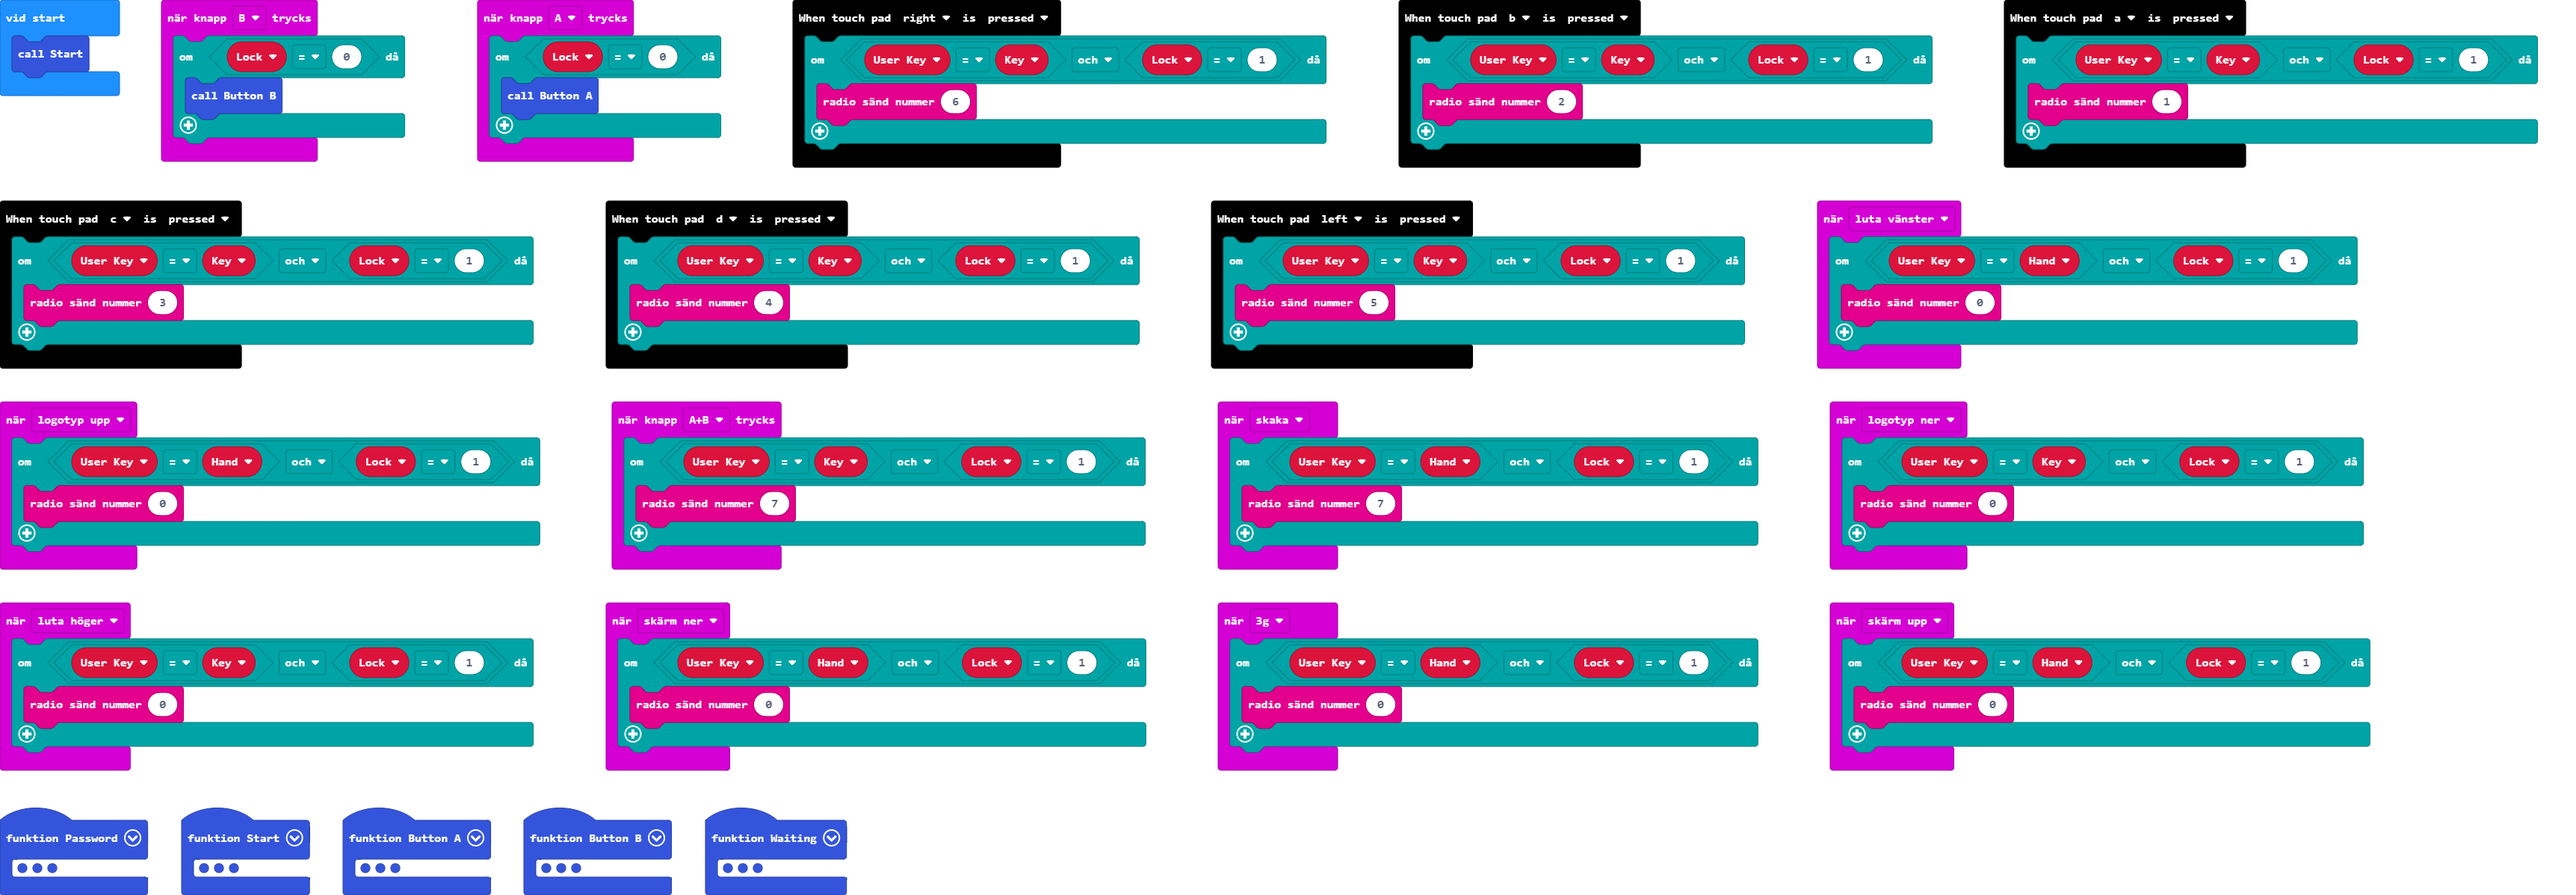
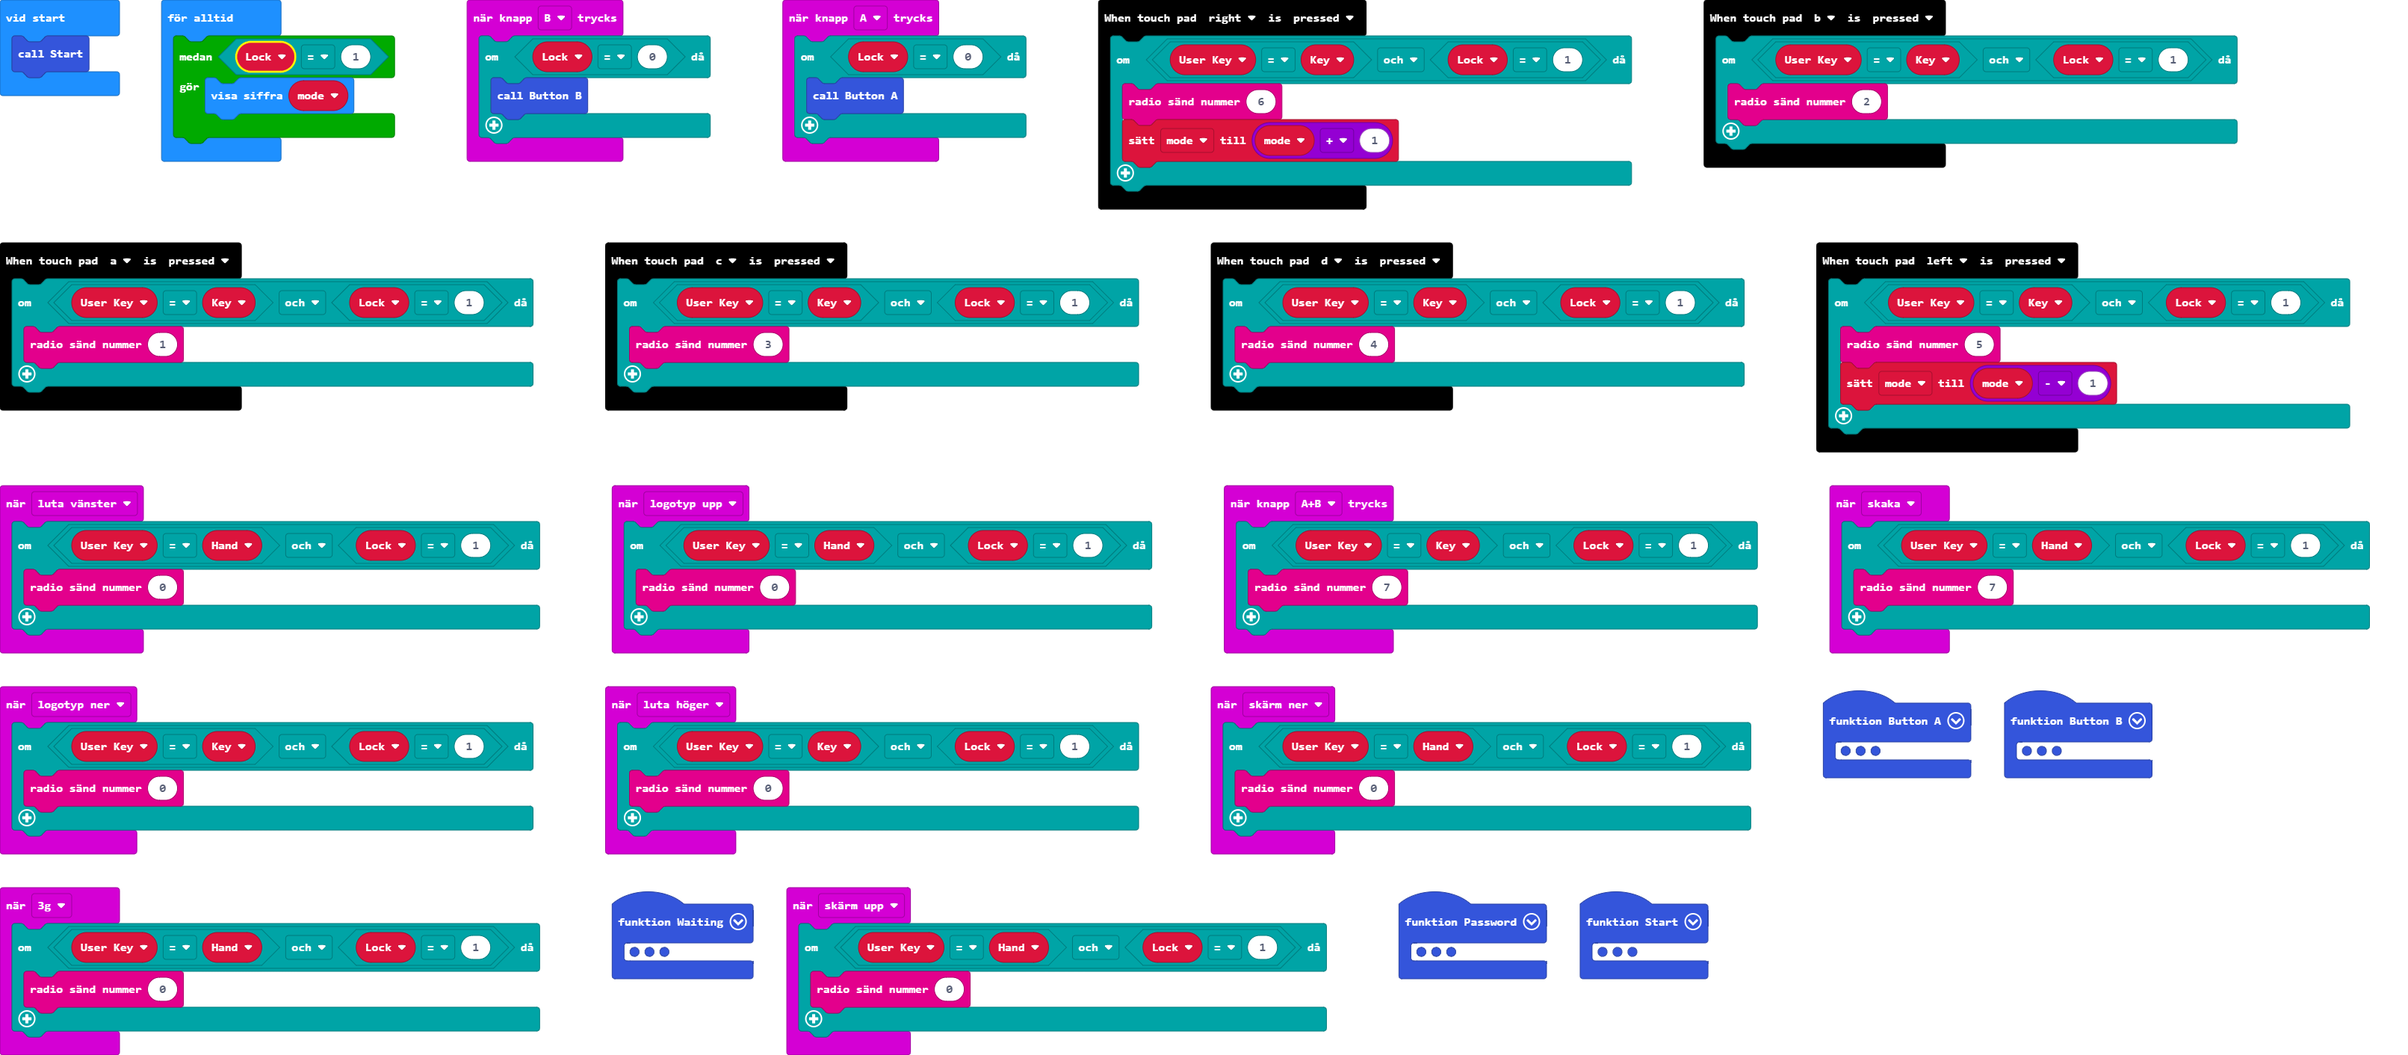
Update main.blocks, main.ts

diff --git a/main.ts b/main.ts
@@ -11,17 +11,16 @@ function Password () {
             basic.showIcon(IconNames.Yes)
             basic.pause(200)
             basic.clearScreen()
-            music.startMelody(music.builtInMelody(Melodies.Dadadadum), MelodyOptions.Once)
             radio.sendNumber(8)
         }
         basic.pause(100)
         Lock = 1
+        mode = 4
     } else if (User_Key.length > Key.length || User_Key.length > Hand.length) {
         if (Lock == 0) {
             basic.showIcon(IconNames.No)
             basic.pause(200)
             basic.clearScreen()
-            music.startMelody(music.builtInMelody(Melodies.Dadadadum), MelodyOptions.Once)
             User_Key = ""
             Temp = ""
             Count = Count + 1
@@ -94,11 +93,13 @@ function Button_A () {
 touchbit.on(touchbit.TouchPad.right, touchbit.TouchEvent.pressed, function () {
     if (User_Key == Key && Lock == 1) {
         radio.sendNumber(6)
+        mode = mode + 1
     }
 })
 touchbit.on(touchbit.TouchPad.left, touchbit.TouchEvent.pressed, function () {
     if (User_Key == Key && Lock == 1) {
         radio.sendNumber(5)
+        mode = mode - 1
     }
 })
 input.onGesture(Gesture.ScreenDown, function () {
@@ -188,9 +189,15 @@ function Waiting () {
 }
 let Try = 0
 let Count = 0
+let mode = 0
 let Hand = ""
 let Temp = ""
 let Lock = 0
 let Key = ""
 let User_Key = ""
 Start()
+basic.forever(function () {
+    while (Lock == 1) {
+        basic.showNumber(mode)
+    }
+})
